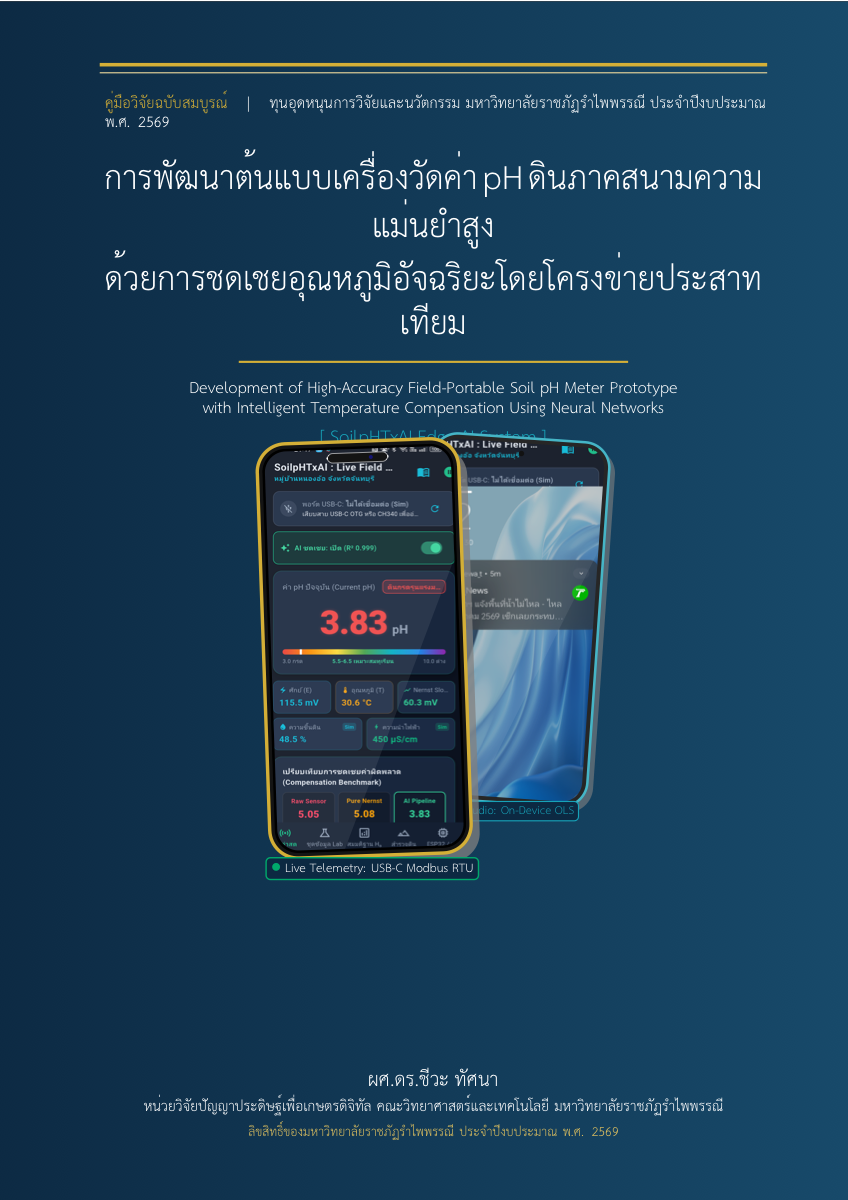
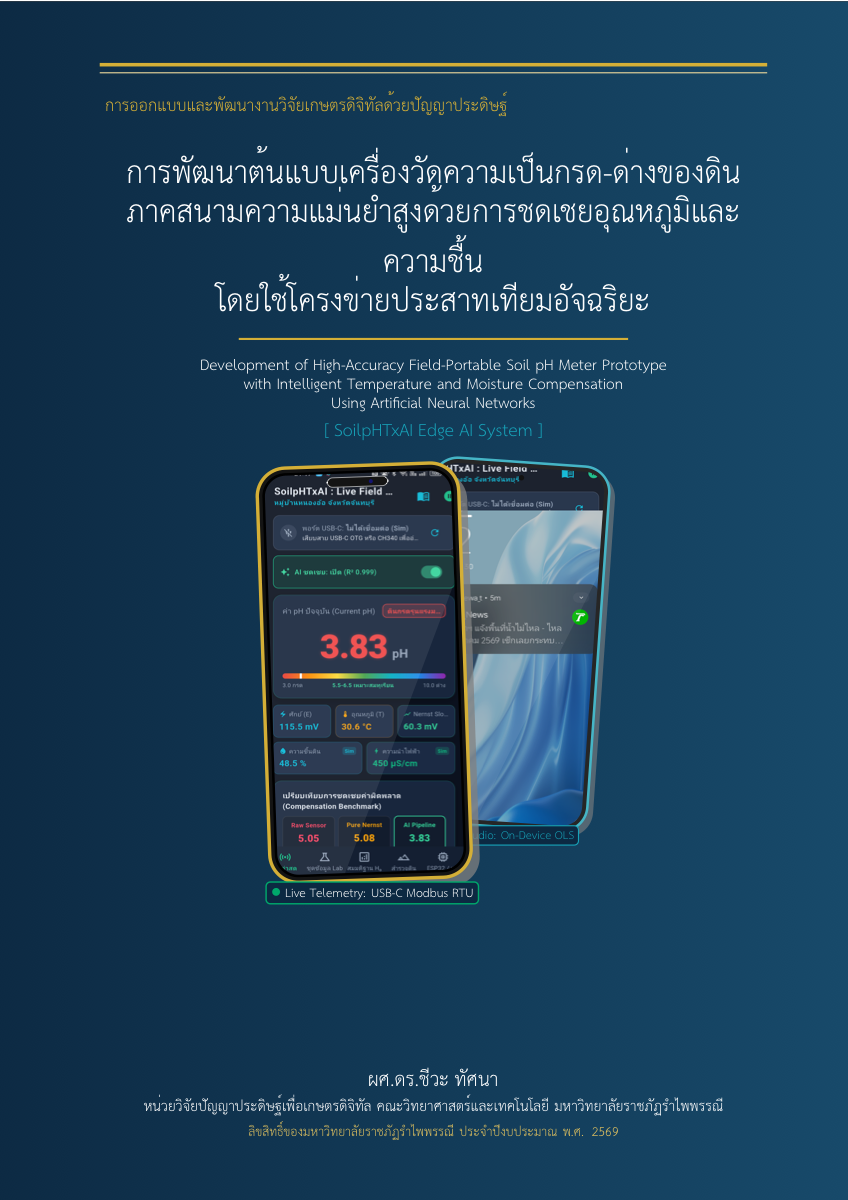
docs: Update cover title to 3 lines with moisture compensation and revised header

Changed region(s): [[0.1226, 0.0617, 0.8892, 0.7708]]

diff --git a/docs/manual_latex/frontmatter/cover.tex b/docs/manual_latex/frontmatter/cover.tex
@@ -14,30 +14,32 @@
     \draw[line width=2.5pt, color=rbruGold] ($(current page.north west)+(25mm,-16mm)$) -- ($(current page.north east)+(-20mm,-16mm)$);
     \draw[line width=0.8pt, color=rbruGold!50] ($(current page.north west)+(25mm,-18mm)$) -- ($(current page.north east)+(-20mm,-18mm)$);
     
-    % Header Banner: กระชับ บรรทัดเดียว ตามคำสั่ง
+    % Header Banner: ปรับเป็น "การออกแบบและพัฒนางานวิจัยเกษตรดิจิทัลด้วยปัญญาประดิษฐ์" บรรทัดเดียว
     \node[anchor=north west, text width=165mm] at ($(current page.north west)+(25mm,-21mm)$) {
-        {\fontsize{10}{13}\selectfont\bfseries\color{rbruGold} คู่มือวิจัยฉบับสมบูรณ์ \quad \textcolor{white!40}{|} \quad \textnormal{\textcolor{white!85}{ทุนอุดหนุนการวิจัยและนวัตกรรม มหาวิทยาลัยราชภัฏรำไพพรรณี ประจำปีงบประมาณ พ.ศ. 2569}}\par}
+        {\fontsize{11}{14}\selectfont\bfseries\color{rbruGold} การออกแบบและพัฒนางานวิจัยเกษตรดิจิทัลด้วยปัญญาประดิษฐ์\par}
     };
     
-    % Main Title Box: ปรับชื่อหนังสือเหลือ 2 บรรทัด ตัดคำต่อเนื่อง ไม่ฉีกคำ
-    \node[anchor=north, text width=175mm] at ($(current page.north)+(2.5mm,-32mm)$) {
+    % Main Title Box: ปรับชื่อหนังสือ 3 บรรทัดตามคำสั่ง พร้อมภาษาอังกฤษที่สอดคล้องกัน
+    \node[anchor=north, text width=175mm] at ($(current page.north)+(2.5mm,-31mm)$) {
         \begin{center}
-            {\fontsize{22}{29}\selectfont\bfseries\color{white}
-            การพัฒนาต้นแบบเครื่องวัดค่า pH ดินภาคสนามความแม่นยำสูง\\
-            ด้วยการชดเชยอุณหภูมิอัจฉริยะโดยโครงข่ายประสาทเทียม\par}
+            {\fontsize{20.5}{27.5}\selectfont\bfseries\color{white}
+            การพัฒนาต้นแบบเครื่องวัดความเป็นกรด-ด่างของดิน\\
+            ภาคสนามความแม่นยำสูงด้วยการชดเชยอุณหภูมิและความชื้น\\
+            โดยใช้โครงข่ายประสาทเทียมอัจฉริยะ\par}
             \vspace{2.5mm}
             {\color{rbruGold}\rule{0.55\textwidth}{1.5pt}\par}
             \vspace{2.5mm}
-            {\fontsize{10.5}{14}\selectfont\itshape\color{white!85}
+            {\fontsize{10}{13.5}\selectfont\itshape\color{white!85}
             Development of High-Accuracy Field-Portable Soil pH Meter Prototype\\
-            with Intelligent Temperature Compensation Using Neural Networks\par}
+            with Intelligent Temperature and Moisture Compensation\\
+            Using Artificial Neural Networks\par}
             \vspace{2mm}
-            {\fontsize{12}{15}\selectfont\bfseries\color{rbruCyan} [ SoilpHTxAI Edge AI System ]\par}
+            {\fontsize{11.5}{14}\selectfont\bfseries\color{rbruCyan} [ SoilpHTxAI Edge AI System ]\par}
         \end{center}
     };
 
-    % Real Smartphone Dual Device Mockup: ภาพประกอบปกเดิมที่สวยงาม จัดระยะห่างไม่ให้ซ้อนทับตัวหนังสือ
-    \node[anchor=center] at ($(current page.north)+(2.5mm,-162mm)$) {
+    % Real Smartphone Dual Device Mockup: ภาพประกอบเครื่องคู่ จัดระยะห่างไม่ให้ซ้อนทับตัวหนังสือ
+    \node[anchor=center] at ($(current page.north)+(2.5mm,-168mm)$) {
         \begin{tikzpicture}
             % ========================================================
             % SECONDARY PHONE (Right: Edge ML Studio Screen)
@@ -92,7 +94,7 @@
         \end{tikzpicture}
     };
 
-    % Publisher & Attribution Footer (ปลอด "จัดทำขึ้นโดย" และปลอดกล่องคณะผู้วิจัยตามสั่ง)
+    % Publisher & Attribution Footer
     \node[anchor=south, text width=160mm] at ($(current page.south)+(2.5mm,14mm)$) {
         \begin{center}
             {\fontsize{13}{17}\selectfont\bfseries\color{white} ผศ.ดร.ชีวะ ทัศนา\par}
